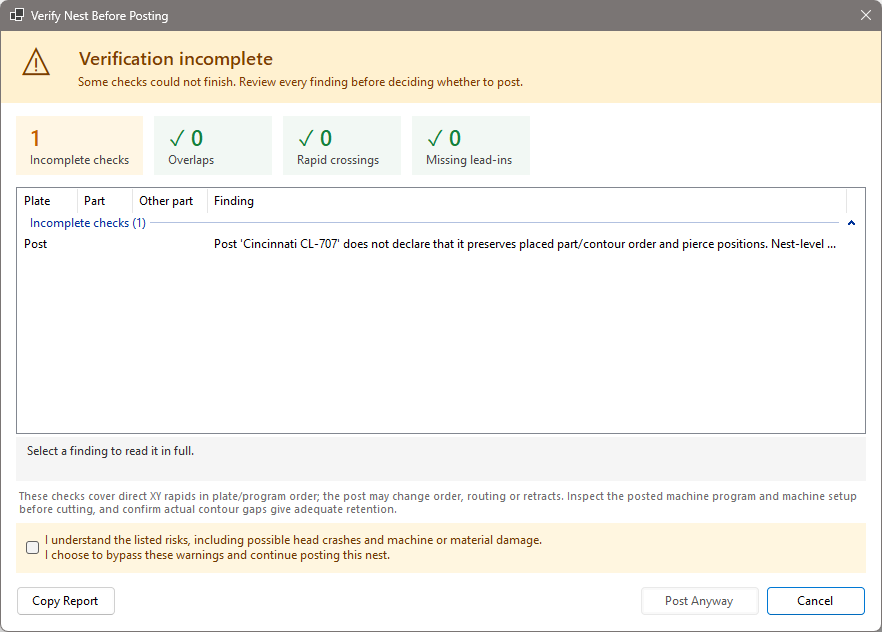
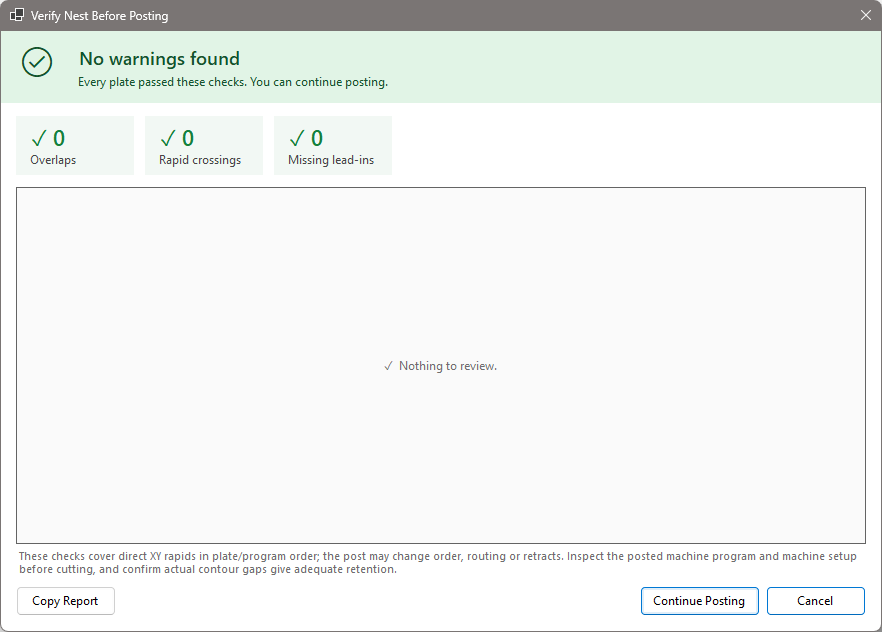
Recapture a clean check before posting
The Cincinnati CL post now writes a planned nest in the order the check
verified, so the tutorial's nest reaches Verify Nest Before Posting with
no warnings: three callouts (summary, findings, Continue Posting), and
the risk box described in text for nests that have findings. Check a nest
says when the CL post's rapid order can be checked in full.

diff --git a/docs/validate.md b/docs/validate.md
@@ -87,12 +87,13 @@ before it asks where to save the program.
 1. A summary of the checks. **Overlapping parts and clamps**, **Missing lead-ins** and
    **Rapid crossings** are always listed; a green check means that check found nothing.
    Other checks are listed only when they find something (see below).
-2. Each finding, by plate and part. Click one to read it in full.
-3. To post despite the findings, tick the box saying you understand the risks. It
-   applies to this one post only; the next post starts unticked.
-4. **Post Anyway** writes the program once the box is ticked. **Cancel** (the default,
-   and ++esc++) goes back without writing anything. When nothing is found, the button
-   reads **Continue Posting** instead.
+2. Each finding, by plate and part. Click one to read it in full. This nest has none.
+3. **Continue Posting** writes the program. **Cancel** (the default, and ++esc++) goes
+   back without writing anything.
+
+When there are findings, the button reads **Post Anyway** and stays greyed out until you
+tick the box saying you understand the risks. The box applies to this one post only; the
+next post starts unticked.
 
 The extra checks, listed only when they find something:
 
@@ -109,7 +110,9 @@ The extra checks, listed only when they find something:
 
 Some posts reorder the cutting when they write the program. For those, the review adds
 a warning that the final rapid sequence can't be fully checked, even when the nest has
-no findings.
+no findings. The Cincinnati CL post writes a nest planned with **Plan Cutting** in the
+order checked, so it gets no such warning, unless the post's part sub-programs or smart
+rapids are turned on, or a part's etching comes after its cuts.
 
 A part whose geometry can't be checked is reported as incomplete, never as passed.
 

diff --git a/docs/first-nest.md b/docs/first-nest.md
@@ -176,11 +176,13 @@ OpenNest checks the nest before it writes any CNC code.
 ![Verify Nest Before Posting window](images/first-nest-verify.png)
 
 1. A summary of the checks. A green check means that check found nothing.
-2. Each finding, by plate and part. Click one to read it in full.
-3. If you've reviewed every finding and still want to post, tick this box. It accepts
-   the risks for this one post only.
-4. **Post Anyway** writes the program once the box is ticked. **Cancel** goes back so
-   you can fix the problems.
+2. Each finding, by plate and part. Click one to read it in full. This nest has none.
+3. **Continue Posting** writes the program. **Cancel** goes back without writing
+   anything.
+
+When the check does find something, the button reads **Post Anyway** instead. To post
+despite the findings, tick the box saying you understand the risks; it accepts them for
+this one post only. Otherwise click **Cancel** and fix the problems.
 
 [Check a nest](validate.md#before-posting) explains every check.
 
